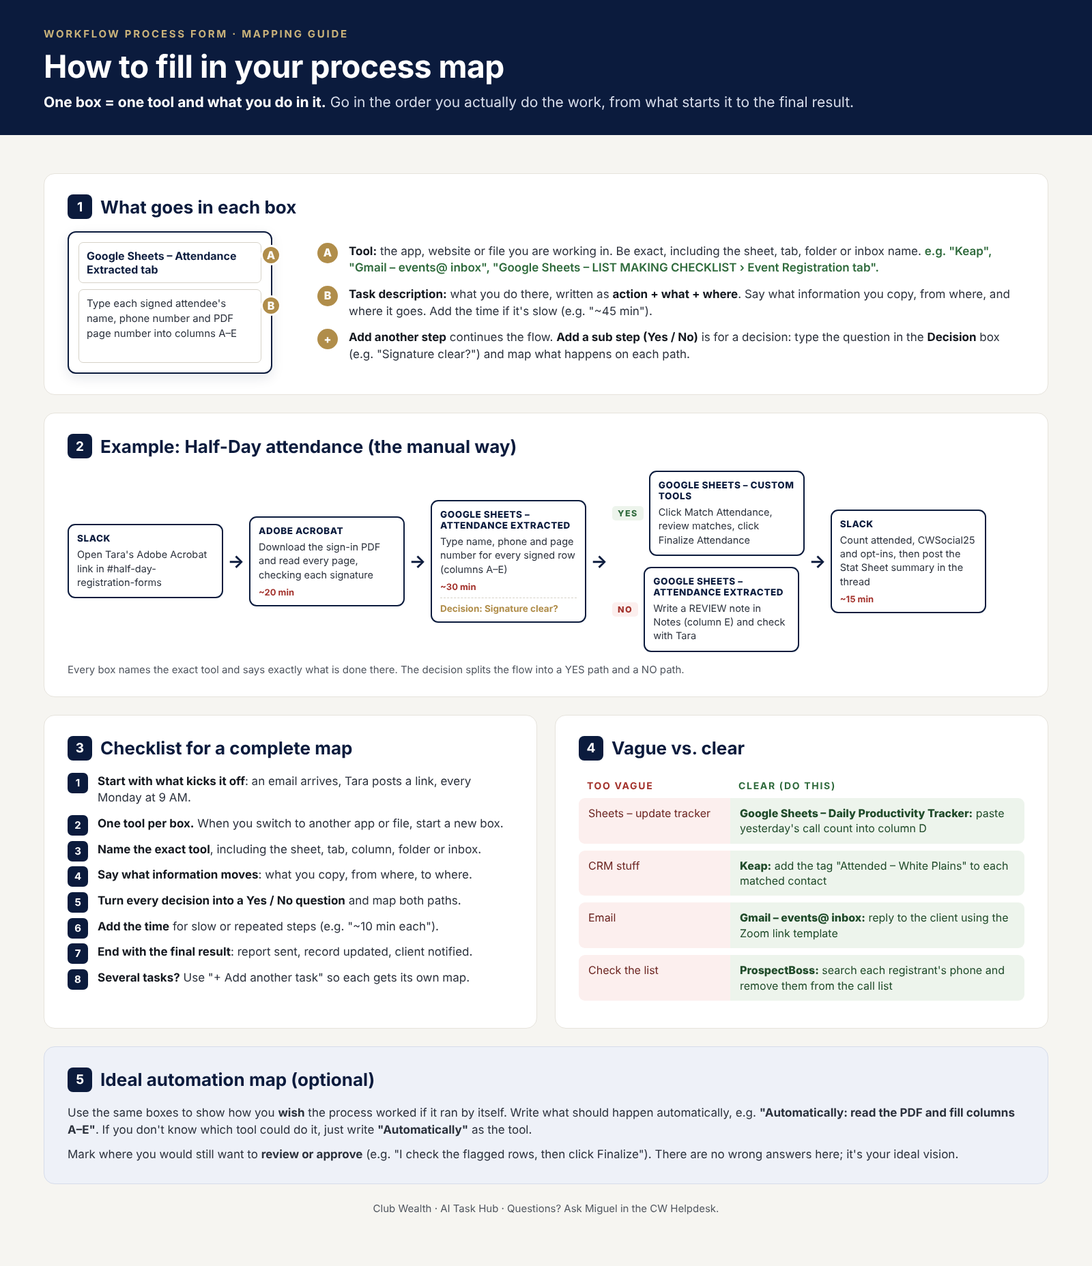
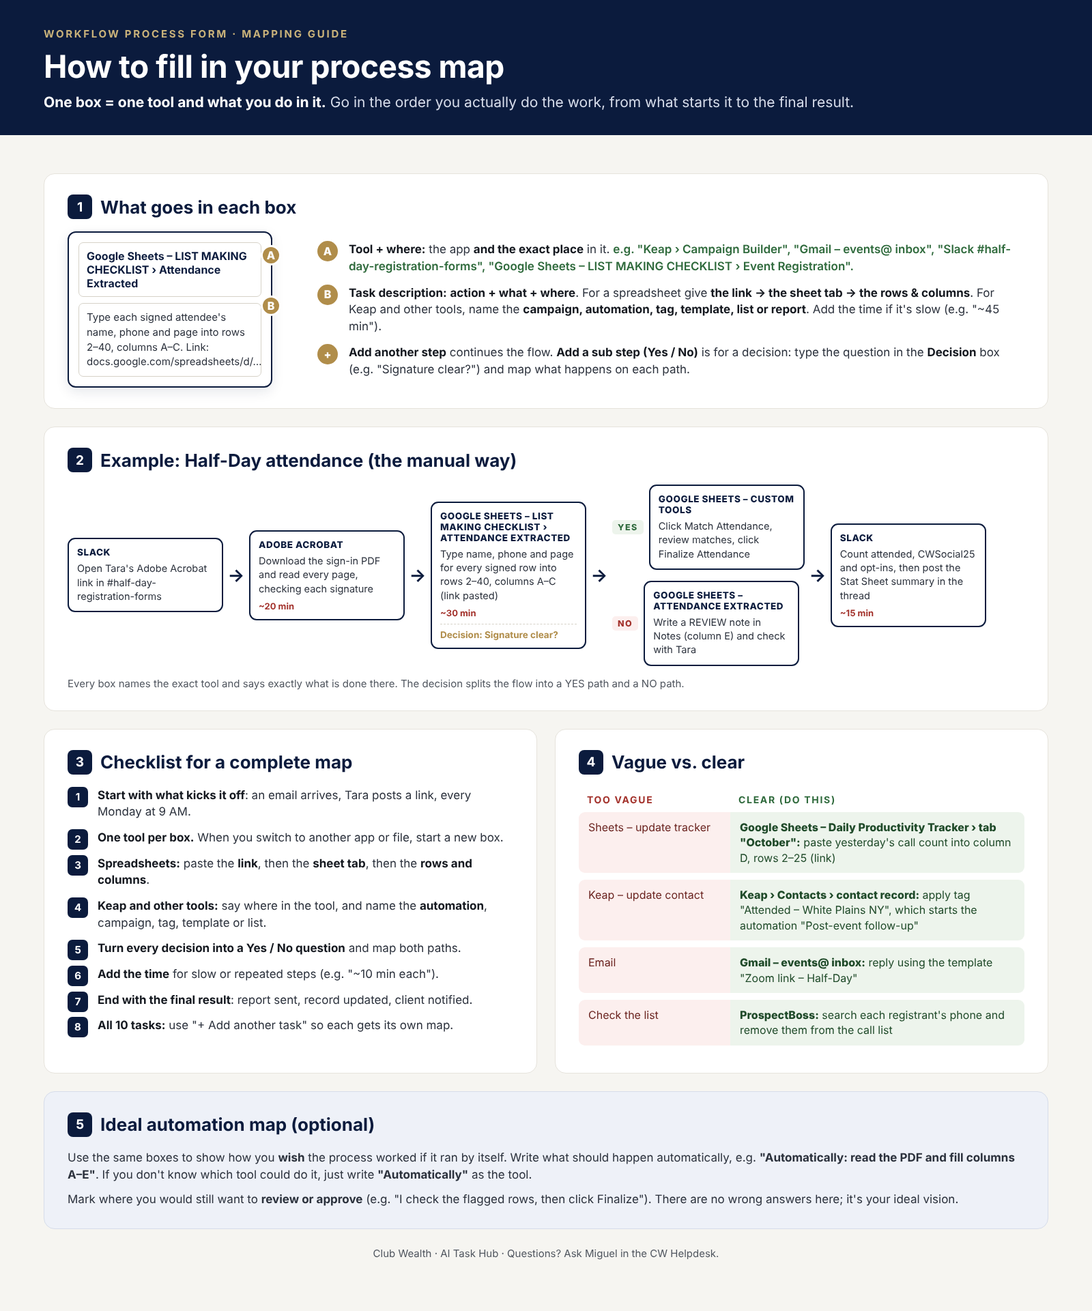
Add a first-visit form tutorial, a Department field, and stricter mapping guidance
- 8-slide tutorial opens on the first visit (desktop) and from 'Watch the
  tutorial': the 3 questions, how the map works, spreadsheets (link, tab,
  rows/columns), Keap (area + automation/campaign/tag names), every other
  tool, vague vs. clear, and submitting.
- Required Department field (suggestions such as 'Events Department'),
  validated in the browser and in api/submit.js, written to a new last
  'Department' column by Code.gs.
- Map step placeholders and the mapping guide image now ask for the exact
  place in each tool, spreadsheet links/tabs/cells and automation names.

Claude-Session: https://claude.ai/code/session_01ADaAwffuoWkooB89VtMcsv

diff --git a/public/index.html b/public/index.html
@@ -69,6 +69,9 @@
           <li><strong>Map</strong> how you do each one today. Use "+ Add another task" so every task gets its own map.</li>
           <li><strong>Optional:</strong> show how you wish they worked.</li>
         </ol>
+        <button type="button" class="tour-open" data-open-tour>
+          <svg viewBox="0 0 16 16" width="14" height="14" aria-hidden="true"><circle cx="8" cy="8" r="6.5" fill="none" stroke="currentColor" stroke-width="1.5"/><path d="M6.5 5.5v5l4-2.5z" fill="currentColor"/></svg>
+          Watch the tutorial</button>
         <p class="draft-note" id="draftNote">Your answers are saved in this browser as you type, so you can close the tab and come back.</p>
       </section>
 
@@ -88,7 +91,21 @@
             <span class="label">Date <em>*</em></span>
             <input type="date" name="date" required>
           </label>
+          <label class="field">
+            <span class="label">Department <em>*</em></span>
+            <input type="text" name="department" required list="departments" autocomplete="organization-title" placeholder="e.g. Events Department">
+          </label>
         </div>
+        <datalist id="departments">
+          <option value="Events Department"></option>
+          <option value="Client Care Department"></option>
+          <option value="Admin Department"></option>
+          <option value="Social Media Department"></option>
+          <option value="Tech Department"></option>
+          <option value="AIM Department"></option>
+          <option value="Homexa"></option>
+          <option value="PFL"></option>
+        </datalist>
       </section>
 
       <!-- Q1: process summary (stored as q2.overview) -->
@@ -115,7 +132,7 @@
         <p class="hint">Make <strong>one map per task</strong>: give it the task's title, then click <strong>+ Add another task</strong> for the next one. Map each step as <strong>Tool &rarr; What you do in it</strong>, in the order you do it. Use the plus <strong>above</strong> a step for a YES path and <strong>below</strong> for a NO path when the process splits on a decision.</p>
         <figure class="guide">
           <button type="button" class="guide-shot" data-open-guide aria-label="Open the mapping guide">
-            <img src="/sop/map-guide.png" alt="" width="1600" height="1856" loading="lazy">
+            <img src="/sop/map-guide.png" alt="" width="1600" height="1921" loading="lazy">
           </button>
           <figcaption>
             <strong>Before you start, read the mapping guide.</strong>
@@ -186,6 +203,132 @@
 
 
 
+  <dialog class="tour" id="tourDialog" aria-labelledby="tourTitle">
+    <div class="tour-inner">
+      <header class="tour-head">
+        <p class="tour-eyebrow">Form tutorial <span id="tourCount">1 of 8</span></p>
+        <button type="button" class="icon-btn" data-close-tour aria-label="Close the tutorial"><svg viewBox="0 0 16 16" width="16" height="16"><path d="M4 4l8 8M12 4l-8 8" stroke="currentColor" stroke-width="1.6" stroke-linecap="round"/></svg></button>
+      </header>
+      <div class="tour-body">
+
+        <section class="tour-slide" data-slide>
+          <h2 id="tourTitle">Welcome! Here's how this form works</h2>
+          <p>This form collects <strong>all the tasks from your 10 bullet points</strong> in the AI audit, so we can find which ones AI and automation can take off your plate.</p>
+          <ol class="tour-list">
+            <li><b>01 Process summary:</b> a few sentences about each task, numbered 1–10.</li>
+            <li><b>02 Manual process:</b> a map of how you do each task today. This is the most important part.</li>
+            <li><b>03 Ideal automation:</b> optional, how you wish the task worked.</li>
+          </ol>
+          <p class="tour-note">The next slides show exactly what to type, especially in the map. It takes about 2 minutes. Your answers save in this browser as you type.</p>
+        </section>
+
+        <section class="tour-slide" data-slide hidden>
+          <h2>01 · Process summary</h2>
+          <p>Write one short paragraph per task, numbered to match your 10 bullet points. For each task, cover:</p>
+          <ul class="tour-ticks">
+            <li><b>What</b> the task is</li>
+            <li><b>What starts it</b> (an email arrives, Tara posts a link, every Monday 9 AM)</li>
+            <li><b>How often</b> you do it</li>
+            <li><b>How long</b> it takes each time</li>
+          </ul>
+          <div class="tour-example"><span>Example</span>3. Event stats updates: after every Half-Day event, Tara posts the sign-in sheet in Slack and I turn it into attendance stats. 3–4 times a week, about 1 hour each.</div>
+        </section>
+
+        <section class="tour-slide" data-slide hidden>
+          <h2>02 · How the map works</h2>
+          <div class="tour-node">
+            <div class="tn-box">
+              <div class="tn-tool">Google Sheets – LIST MAKING CHECKLIST › Attendance Extracted</div>
+              <div class="tn-desc">Type each signed attendee's name and phone into rows 2–40, columns A–B. Link: https://docs.google.com/spreadsheets/d/…</div>
+            </div>
+            <ul class="tour-ticks">
+              <li><b>Top box (Tool):</b> the app <b>and exactly where</b> in it.</li>
+              <li><b>Bottom box (Task description):</b> what you do there: action + what + where, plus the link, tab, rows/columns or automation name.</li>
+              <li><b>+ Add another step:</b> the next thing you do.</li>
+              <li><b>Add a sub step Yes / No:</b> when the process splits on a question (e.g. "Signature clear?").</li>
+              <li><b>+ Add another task:</b> a new map for your next task. <b>One map per task.</b></li>
+            </ul>
+          </div>
+        </section>
+
+        <section class="tour-slide" data-slide hidden>
+          <h2>Spreadsheets: link → tab → rows &amp; columns</h2>
+          <p>If a step uses a spreadsheet you review or update, we need to find the exact cells. Always give all of these:</p>
+          <ol class="tour-steps">
+            <li><b>The link</b> to the spreadsheet (copy it from the browser address bar)</li>
+            <li><b>The sheet tab</b> name (the tab at the bottom of the screen)</li>
+            <li><b>The rows and columns</b> you read or change</li>
+          </ol>
+          <div class="tour-vs">
+            <div class="vs-bad"><span>Vague</span>Google Sheets: update the tracker</div>
+            <div class="vs-good"><span>Clear</span><b>Google Sheets – Daily Productivity Tracker › tab "October"</b><br>Paste yesterday's call count into column D, one row per rep (rows 2–25). Link: https://docs.google.com/spreadsheets/d/…</div>
+          </div>
+        </section>
+
+        <section class="tour-slide" data-slide hidden>
+          <h2>Keap: say where in Keap, and name the automation</h2>
+          <p>"Keap" alone could mean a hundred places. Say which area you're in, and name the exact <b>campaign, automation, tag, saved search or broadcast</b>.</p>
+          <ul class="tour-ticks">
+            <li><b>Contacts:</b> Keap › Contacts › contact record › Tags: apply tag "Attended – White Plains NY – 10-08-2026"</li>
+            <li><b>Campaigns / automations:</b> Keap › Campaign Builder › "Half-Day Registration Follow-up" › sequence "Day 1 reminder"</li>
+            <li><b>Saved searches / reports:</b> Keap › Contacts › saved search "Half-Day registrants – Oct"</li>
+            <li><b>Emails:</b> Keap › Broadcasts › "Week 42 event invite"</li>
+          </ul>
+          <div class="tour-vs">
+            <div class="vs-bad"><span>Vague</span>Keap: update the contact</div>
+            <div class="vs-good"><span>Clear</span><b>Keap › Contacts › contact record</b><br>Apply the tag "Attended – White Plains NY – 10-08-2026", which starts the automation "Post-event follow-up".</div>
+          </div>
+        </section>
+
+        <section class="tour-slide" data-slide hidden>
+          <h2>Every other tool: the same rule</h2>
+          <p>Name the tool <b>and the exact place</b>, and name any automation, template, list or report by its real name.</p>
+          <div class="tour-grid">
+            <div><b>Slack</b>Channel name: #half-day-registration-forms</div>
+            <div><b>Gmail / Outlook</b>Inbox, folder or label, and the template name</div>
+            <div><b>Google Drive</b>Folder link and file name</div>
+            <div><b>ProspectBoss</b>List or pond name</div>
+            <div><b>Eventbrite</b>Event name and the report or page you open</div>
+            <div><b>Zapier</b>The Zap name, e.g. "Half day registration forms &gt; Slack"</div>
+            <div><b>Zoom</b>Meeting or room name, e.g. "CW Helpdesk – Room 10"</div>
+            <div><b>Adobe Acrobat / PDFs</b>Where the file comes from and what you read in it</div>
+            <div><b>Any website or app</b>The page, menu or button you use</div>
+          </div>
+        </section>
+
+        <section class="tour-slide" data-slide hidden>
+          <h2>Vague vs. clear: quick check</h2>
+          <p>Before you move on, read each box and ask: <b>"Could someone else do this step from my description alone?"</b> If not, add more detail.</p>
+          <table class="tour-table">
+            <tr><th class="bad">Too vague</th><th class="good">Clear (do this)</th></tr>
+            <tr><td class="bad">Check the sheet</td><td class="good">Google Sheets – Event Registration tab (link): count "Yes" in column F for rows with today's event date in column H</td></tr>
+            <tr><td class="bad">Keap stuff</td><td class="good">Keap › Campaign Builder › "Half-Day Registration Follow-up": pause the sequence "Day 1 reminder" for no-shows</td></tr>
+            <tr><td class="bad">Send email</td><td class="good">Gmail – events@ inbox: reply using the template "Zoom link – Half-Day"</td></tr>
+            <tr><td class="bad">Post in Slack</td><td class="good">Slack #half-day-registration-forms: reply in Tara's thread with the stats summary</td></tr>
+          </table>
+        </section>
+
+        <section class="tour-slide" data-slide hidden>
+          <h2>03 · Ideal automation, then submit</h2>
+          <ul class="tour-ticks">
+            <li><b>Optional:</b> map how you wish each task worked. Write "Automatically" if you don't know the tool, and mark where you'd still check or approve.</li>
+            <li>Type <code>ACKNOWLEDGED</code> and click <b>Submit form</b>.</li>
+            <li>You'll be invited to <b>Room 10</b> on the CW Helpdesk Zoom to walk through your process with Miguel and Camille.</li>
+          </ul>
+          <p class="tour-note">You can reopen this tutorial any time with the <b>Watch the tutorial</b> button at the top, and the <b>mapping guide</b> in question 02.</p>
+        </section>
+
+      </div>
+      <footer class="tour-foot">
+        <div class="tour-dots" id="tourDots" aria-hidden="true"></div>
+        <div class="tour-btns">
+          <button type="button" class="btn-ghost btn-sm" id="tourBack">Back</button>
+          <button type="button" class="btn-primary btn-sm" id="tourNext">Next</button>
+        </div>
+      </footer>
+    </div>
+  </dialog>
+
   <dialog class="guide-dialog" id="guideDialog" aria-labelledby="guideTitle">
     <div class="guide-dialog-inner">
       <header class="guide-dialog-head">
@@ -193,7 +336,7 @@
         <button type="button" class="icon-btn" data-close-guide aria-label="Close the mapping guide"><svg viewBox="0 0 16 16" width="16" height="16"><path d="M4 4l8 8M12 4l-8 8" stroke="currentColor" stroke-width="1.6" stroke-linecap="round"/></svg></button>
       </header>
       <div class="guide-dialog-body">
-        <img src="/sop/map-guide.png" alt="Mapping guide: what goes in each box (the tool, and what you do in it as action, what and where), an example map of the Half-Day attendance process with a Yes/No decision, a checklist for a complete map, vague versus clear examples, and how to map the ideal automated version." width="1600" height="1856" loading="lazy">
+        <img src="/sop/map-guide.png" alt="Mapping guide: what goes in each box (the tool, and what you do in it as action, what and where), an example map of the Half-Day attendance process with a Yes/No decision, a checklist for a complete map, vague versus clear examples, and how to map the ideal automated version." width="1600" height="1921" loading="lazy">
       </div>
       <footer class="guide-dialog-foot">
         <button type="button" class="btn-primary btn-sm" data-close-guide>Back to my map</button>
@@ -228,8 +371,8 @@
   <template id="tpl-node">
     <div class="node">
       <button type="button" class="node-remove" data-act="remove-step" aria-label="Remove step"><svg viewBox="0 0 16 16" width="10" height="10"><path d="M4 4l8 8M12 4l-8 8" stroke="currentColor" stroke-width="1.8" stroke-linecap="round"/></svg></button>
-      <input type="text" class="node-tool" data-bind="tool" placeholder="Tool" aria-label="Tool used">
-      <textarea class="node-desc" data-bind="description" rows="4" placeholder="Task description" aria-label="Task description"></textarea>
+      <input type="text" class="node-tool" data-bind="tool" placeholder="Tool + where (e.g. Keap › Campaign Builder)" aria-label="Tool used and where in it">
+      <textarea class="node-desc" data-bind="description" rows="4" placeholder="What you do. Add the link, sheet tab, rows/columns, or the automation name." aria-label="Task description"></textarea>
     </div>
   </template>
 

diff --git a/public/styles.css b/public/styles.css
@@ -219,6 +219,7 @@ form {
 }
 
 .grid-3 { display: grid; grid-template-columns: repeat(3, 1fr); gap: 18px; }
+#intakeForm .card .grid-3 { grid-template-columns: 1fr 1fr; }
 .stack { display: grid; gap: 8px; }
 
 /* ---------- fields ---------- */
@@ -969,3 +970,46 @@ code {
   .device-gate .gate-url { margin: 14px 0 0; font-family: var(--mono); font-size: 12px; color: rgba(255,255,255,0.6); word-break: break-all; }
 }
 
+
+/* ---------- first-visit tutorial ---------- */
+.tour-open { display: inline-flex; align-items: center; gap: 8px; margin: 2px 0 12px; padding: 8px 14px; border: 1px solid #d6dcea; border-radius: 8px; background: var(--navy-tint); color: var(--navy); font: 600 13.5px var(--sans); cursor: pointer; }
+.tour-open:hover { border-color: var(--navy-2); }
+.tour { width: min(760px, 94vw); max-height: 90vh; padding: 0; border: 0; border-radius: 14px; background: var(--surface); box-shadow: 0 30px 80px rgba(11,27,61,0.35); }
+.tour::backdrop { background: rgba(11,27,61,0.6); }
+.tour-inner { display: flex; flex-direction: column; max-height: 90vh; }
+.tour-head { display: flex; justify-content: space-between; align-items: center; padding: 12px 18px; border-bottom: 1px solid var(--line); }
+.tour-eyebrow { margin: 0; font-family: var(--mono); font-size: 11px; letter-spacing: 0.14em; text-transform: uppercase; color: var(--navy); }
+.tour-eyebrow span { margin-left: 8px; color: var(--muted); }
+.tour-body { overflow: auto; padding: 22px 26px 8px; }
+.tour-slide h2 { margin: 0 0 12px; font-family: var(--heading); font-size: 22px; letter-spacing: -0.01em; color: var(--ink); }
+.tour-slide p { margin: 0 0 12px; font-size: 14.5px; color: var(--ink-2); }
+.tour-note { font-size: 13.5px !important; color: var(--muted) !important; }
+.tour-list, .tour-steps { margin: 0 0 14px; padding-left: 20px; display: grid; gap: 8px; font-size: 14.5px; color: var(--ink-2); }
+.tour-ticks { list-style: none; margin: 0 0 14px; padding: 0; display: grid; gap: 8px; font-size: 14px; color: var(--ink-2); }
+.tour-ticks li { position: relative; padding-left: 22px; }
+.tour-ticks li::before { content: ''; position: absolute; left: 2px; top: 7px; width: 9px; height: 9px; border-radius: 2px; background: var(--accent); }
+.tour-slide b { color: var(--ink); }
+.tour-example { padding: 12px 14px; border-left: 2px solid var(--accent); background: var(--surface-2); border-radius: 0 8px 8px 0; font-size: 13.5px; color: var(--ink-2); }
+.tour-example span, .tour-vs span { display: block; margin-bottom: 4px; font-family: var(--mono); font-size: 10.5px; letter-spacing: 0.12em; text-transform: uppercase; }
+.tour-node { display: grid; grid-template-columns: 250px 1fr; gap: 22px; align-items: start; }
+.tn-box { border: 2px solid var(--navy); border-radius: 10px; padding: 10px; background: #fff; }
+.tn-tool { border: 1px solid var(--line-strong); border-radius: 6px; padding: 7px 9px; font-size: 12.5px; font-weight: 700; color: var(--navy); margin-bottom: 7px; }
+.tn-desc { border: 1px solid var(--line-strong); border-radius: 6px; padding: 7px 9px; font-size: 12.5px; color: var(--ink-2); min-height: 92px; word-break: break-word; }
+.tour-vs { display: grid; grid-template-columns: 1fr 1.6fr; gap: 10px; margin-bottom: 10px; }
+.vs-bad, .vs-good { padding: 11px 13px; border-radius: 8px; font-size: 13.5px; line-height: 1.45; word-break: break-word; }
+.vs-bad { background: var(--danger-tint); color: #6b2420; } .vs-bad span { color: var(--danger); }
+.vs-good { background: var(--ok-tint); color: #1f4a29; } .vs-good span { color: var(--ok); } .vs-good b { color: #1f4a29; }
+.tour-grid { display: grid; grid-template-columns: repeat(3, minmax(0, 1fr)); gap: 10px; }
+.tour-grid div { padding: 10px 12px; border: 1px solid var(--line); border-radius: 8px; background: var(--surface-2); font-size: 13px; color: var(--ink-2); }
+.tour-grid b { display: block; margin-bottom: 3px; font-size: 13.5px; }
+.tour-table { width: 100%; border-collapse: separate; border-spacing: 0 6px; font-size: 13.5px; }
+.tour-table th { text-align: left; font-family: var(--mono); font-size: 10.5px; letter-spacing: 0.12em; text-transform: uppercase; padding: 0 10px; }
+.tour-table th.bad { color: var(--danger); } .tour-table th.good { color: var(--ok); }
+.tour-table td { padding: 9px 11px; vertical-align: top; }
+.tour-table td.bad { width: 30%; background: var(--danger-tint); color: #6b2420; border-radius: 8px 0 0 8px; }
+.tour-table td.good { background: var(--ok-tint); color: #1f4a29; border-radius: 0 8px 8px 0; }
+.tour-foot { display: flex; justify-content: space-between; align-items: center; gap: 12px; padding: 12px 18px; border-top: 1px solid var(--line); }
+.tour-dots { display: flex; gap: 6px; }
+.tour-dots i { width: 7px; height: 7px; border-radius: 50%; background: var(--line-strong); }
+.tour-dots i.on { background: var(--navy); width: 18px; border-radius: 4px; }
+.tour-btns { display: flex; gap: 8px; }

diff --git a/public/app.js b/public/app.js
@@ -276,6 +276,7 @@
     return {
       name: val('name'),
       email: val('email'),
+      department: val('department'),
       date: val('date'),
       // The form asks three questions; they are sent in the original payload shape so the
       // Sheets relay keeps working: summary -> q2.overview, manual map -> q2.tasks,
@@ -296,7 +297,7 @@
       tasks.forEach((t) => addTask(f, t));
     });
     if (data) {
-      ['name', 'email', 'date', 'acknowledged'].forEach((k) => { if (data[k]) form.elements[k].value = data[k]; });
+      ['name', 'email', 'department', 'date', 'acknowledged'].forEach((k) => { if (data[k]) form.elements[k].value = data[k]; });
       ['q2', 'q6', 'q7'].forEach((k) => {
         if (data[k]?.overview) form.elements[`${k}_overview`].value = data[k].overview;
       });
@@ -334,6 +335,7 @@
     };
     if (!data.name) mark(form.elements.name, 'Enter your name.');
     if (!/^[^\s@]+@[^\s@]+\.[^\s@]+$/.test(data.email)) mark(form.elements.email, 'Enter a valid email address.');
+    if (!data.department) mark(form.elements.department, 'Enter your department, e.g. Events Department.');
     if (!data.date) mark(form.elements.date, 'Pick a date.');
     if (!data.q2.overview) mark(form.elements.q2_overview, 'Write a short process summary in question 1.');
     if (!$$('[data-flow="current"] .task', form).some((t) => countSteps(t._path) > 0)) {
@@ -441,6 +443,43 @@
     window.scrollTo({ top: 0, behavior: 'smooth' });
   });
 
+  /* ---------- first-visit tutorial ---------- */
+
+  const TOUR_KEY = 'cw-workflow-tour-seen-v1';
+  const tour = document.getElementById('tourDialog');
+  const slides = $$('[data-slide]', tour);
+  const dots = document.getElementById('tourDots');
+  const back = document.getElementById('tourBack');
+  const next = document.getElementById('tourNext');
+  let slide = 0;
+  dots.innerHTML = slides.map(() => '<i></i>').join('');
+  function showSlide(i) {
+    slide = Math.max(0, Math.min(slides.length - 1, i));
+    slides.forEach((el, n) => { el.hidden = n !== slide; });
+    $$('i', dots).forEach((d, n) => d.classList.toggle('on', n === slide));
+    document.getElementById('tourCount').textContent = `${slide + 1} of ${slides.length}`;
+    back.hidden = slide === 0;
+    next.textContent = slide === slides.length - 1 ? 'Start the form' : 'Next';
+    $('.tour-body', tour).scrollTop = 0;
+  }
+  function openTour() {
+    showSlide(0);
+    tour.showModal();
+    document.documentElement.classList.add('no-scroll');
+  }
+  back.addEventListener('click', () => showSlide(slide - 1));
+  next.addEventListener('click', () => (slide === slides.length - 1 ? tour.close() : showSlide(slide + 1)));
+  tour.addEventListener('click', (e) => { if (e.target.closest('[data-close-tour]')) tour.close(); });
+  tour.addEventListener('keydown', (e) => {
+    if (e.key === 'ArrowRight' && slide < slides.length - 1) showSlide(slide + 1);
+    if (e.key === 'ArrowLeft') showSlide(slide - 1);
+  });
+  tour.addEventListener('close', () => {
+    document.documentElement.classList.remove('no-scroll');
+    try { localStorage.setItem(TOUR_KEY, '1'); } catch { /* storage unavailable */ }
+  });
+  $$('[data-open-tour]').forEach((btn) => btn.addEventListener('click', openTour));
+
   /* ---------- mapping guide pop-up ---------- */
 
   const guide = document.getElementById('guideDialog');
@@ -508,6 +547,11 @@
       window.prompt('Copy this link:', gateUrl);
     }
   });
+
+  // Show the tutorial on the first visit on a computer (phones see the device notice instead).
+  let tourSeen = false;
+  try { tourSeen = localStorage.getItem(TOUR_KEY) === '1'; } catch { /* storage unavailable */ }
+  if (!tourSeen && matchMedia('(min-width: 641px) and (hover: hover)').matches) openTour();
 
   const draft = loadDraft();
   render(draft);

diff --git a/api/submit.js b/api/submit.js
@@ -88,6 +88,7 @@ export function normalize(body) {
   return {
     name: str(b.name, 200),
     email: str(b.email, 320).toLowerCase(),
+    department: str(b.department, 120),
     date: str(b.date, 20),
     tools: {
       web: list(tools.web).map((t) => str(t, 200)).filter(Boolean),
@@ -128,6 +129,7 @@ export function validate(d) {
   const errors = [];
   if (!d.name) errors.push('Name is required.');
   if (!EMAIL_RE.test(d.email)) errors.push('A valid email is required.');
+  if (!d.department) errors.push('Department is required.');
   if (!/^\d{4}-\d{2}-\d{2}$/.test(d.date)) errors.push('Date is required.');
   if (!d.q2.overview) errors.push('Question 1 (process summary) is required.');
   if (!d.q2.tasks.some((t) => t.path)) errors.push('Map at least one step of your manual process in question 2.');

diff --git a/README.md b/README.md
@@ -8,11 +8,11 @@ A self-hosted intake form where admins across Clubwealth, Homexa and PFL documen
 
 ## Form sections
 
-The form is kept short for non-technical staff: three questions and the acknowledgement.
+The form is kept short for non-technical staff: three questions and the acknowledgement. A step-by-step tutorial (8 slides) opens on the first visit on a computer and can be reopened with **Watch the tutorial**; it focuses on writing specific map steps (spreadsheet link → tab → rows/columns; where in Keap and the automation name; the same for every other tool). The mapping guide image opens as a pop-up from question 02.
 
 | # | Section | Captured as |
 |---|---|---|
-| — | Name, CW/HX/PFL email, date | Required fields |
+| — | Name, CW/HX/PFL email, date, department | Required fields (department suggests e.g. "Events Department"; saved in the last `Department` column of `Submissions`) |
 | 01 | Process summary | Free text, required (sent as `q2.overview`) |
 | 02 | Manual process | Flow map per task on a draggable canvas: **Tool → What you do** steps that can split into YES / NO paths (sent as `q2.tasks`), plus an optional "What slows you down the most?" (sent as `q6.overview`). A mapping guide image (`public/sop/map-guide.png`) sits above the map |
 | 03 | Ideal automation (optional) | Free text plus a flow map of the ideal process (sent as `q7`) |
